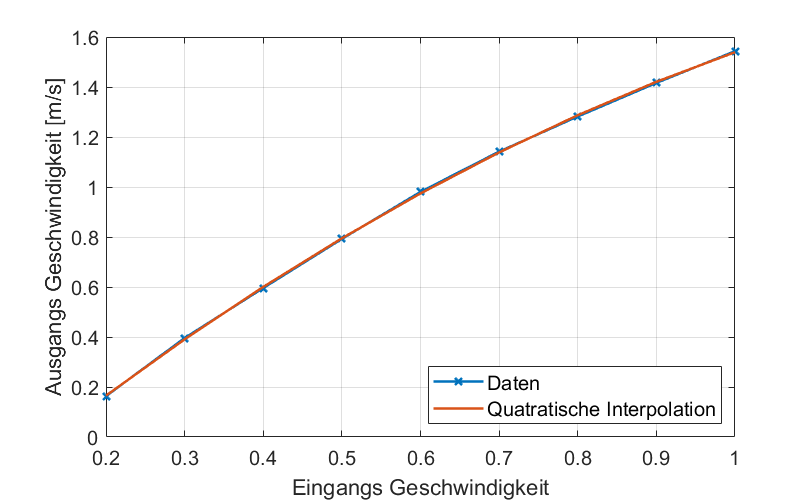
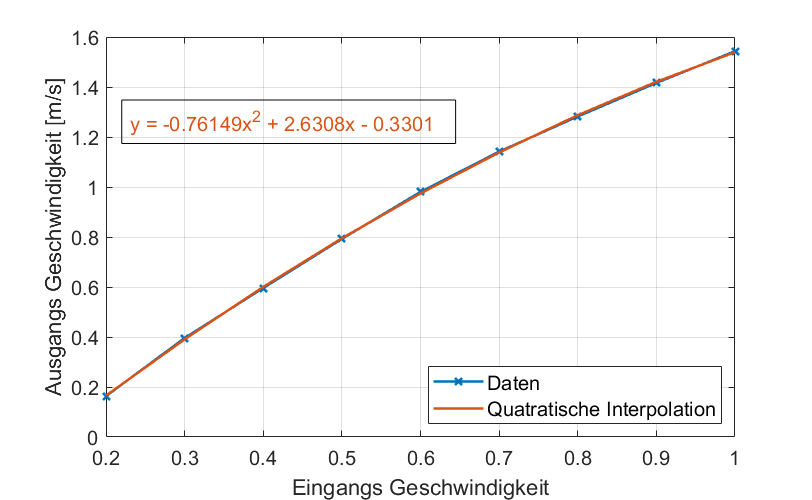
Gleichung in Plots

Changed region(s): [[0.1539, 0.18, 0.5542, 0.27]]

diff --git a/tasks/task1/subtask_e_angles_and_speed/measurments_speed.m b/tasks/task1/subtask_e_angles_and_speed/measurments_speed.m
@@ -36,7 +36,9 @@ grid on
 set(gca,'FontSize',12)
 set(gcf, 'Position', [100, 100, 650, 400]);
 legend("Daten","Quatratische Interpolation",'Location','southeast','FontSize',12);
-
+dim = [.15 .5 .3 .3];
+str = 'y = -0.76149x^2 + 2.6308x - 0.3301';
+annotation('textbox',dim,'String',str,'FitBoxToText','on','Color',[0.8500, 0.3250, 0.0980],'FontSize',12);
 xlabel("Eingangs Geschwindigkeit");
 ylabel("Ausgangs Geschwindigkeit [m/s]")
 

diff --git a/tasks/task1/subtask_e_angles_and_speed/measurment_angles.m b/tasks/task1/subtask_e_angles_and_speed/measurment_angles.m
@@ -13,6 +13,9 @@ legend("Daten","Lineare Interpolation",'Location','southeast','FontSize',12);
 grid on
 xlabel("Eingangs Winkel [?]");
 ylabel("Ausgangs Winkel [?]")
+dim = [.15 .5 .3 .3];
+str = 'y = 0.87857x + 0.25';
+annotation('textbox',dim,'String',str,'FitBoxToText','on','Color',[0.8500, 0.3250, 0.0980],'FontSize',12);
 set(gca,'FontSize',12)
 set(gcf, 'Position', [100, 100, 650, 400]);
 
